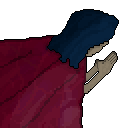
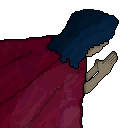
position fixes

Changed region(s): [[0.625, 0.5625, 0.7812, 0.75], [0.7812, 0.5938, 0.8125, 0.625]]

diff --git a/src/main.js b/src/main.js
@@ -92,7 +92,6 @@ import { Table, Player } from "./blackjack";
     const profitGoldTexture = await Assets.load({src: "/assets/upProfitGold.png", data: {scaleMode: "nearest"}});
     const endTexture = await Assets.load({src: "/assets/upEnd.png", data: {scaleMode: "nearest"}});
     const endVisTexture = await Assets.load({src: "/assets/upEndVis.png", data: {scaleMode: "nearest"}});
-    const heartTexture = await Assets.load({src: "/assets/heart.png", data: {scaleMode: "nearest"}});
     const infoTexture = await Assets.load({src: "/assets/flair_small_info.png", data: {scaleMode: "nearest"}});
     const infoCardNumberTexture = await Assets.load({src: "/assets/card3.png", data: {scaleMode: "nearest"}});
     const infoCardFaceTexture = await Assets.load({src: "/assets/card52.png", data: {scaleMode: "nearest"}});
@@ -112,7 +111,7 @@ import { Table, Player } from "./blackjack";
         cardL2Textures.push(texture);
     }
 
-    const backgroundSprite = new Sprite({texture: backgroundTexture, anchor: 0.5});
+    const backgroundSprite = new Sprite({texture: backgroundTexture, anchor: 0.5, zIndex: -100});
     const shopBgSprite = new Sprite({texture: shopBgTexture, anchor: 0.5, scale: scale});
     const keyZSprite = new Sprite({texture: isMobile.phone ? pointerTexture : keyZTexture, anchor: 0.5, scale: isMobile.phone ? scale/4 : scale/6});
     const keyXSprite = new Sprite({texture: isMobile.phone ? pointerTexture : keyXTexture, anchor: 0.5, scale: isMobile.phone ? scale/4 : scale/6});
@@ -121,6 +120,7 @@ import { Table, Player } from "./blackjack";
     const keyCSprite = new Sprite({texture: isMobile.phone ? pointerTexture : keyCTexture, anchor: 0.5, scale: isMobile.phone ? scale/4 : scale/8, eventMode: "static"});
     const playerSprite = new Sprite({texture: isMobile.phone ? playernewextendTexture : playerTexture, anchor: {x: 0, y: 1}, scale: scale});
     const dealerSprite = new Sprite({texture: dealerTexture, scale: scale*0.9});
+    let dealerSpriteDefaultY = dealerSprite.y;
     const cardBackSprite = new Sprite({texture: cardBackTexture, anchor: 0.5, zIndex: 3});
     const cardEmptySprite1 = new Sprite({texture: cardEmptyTexture1, anchor: 0.5, alpha: 0.9, scale: scale});
     const cardEmptySprite2 = new Sprite({texture: cardEmptyTexture2, anchor: 0.5, alpha: 0.7, scale: scale});
@@ -700,29 +700,6 @@ import { Table, Player } from "./blackjack";
         updateButtonColor(itemID);
     }
 
-    const hearts = [];
-    function drawHearts(x, y, amount, maxAmount) {
-        for (const sprite of hearts) {
-            hudContainer.removeChild(sprite);
-            sprite.destroy();
-        }
-
-        for (let i = 1; i <= maxAmount; i++) {
-            const heartSprite = new Sprite({
-                texture: heartTexture,
-                anchor: 0.5,
-                position: {x: x + spacing*0.25 * i, y: y}, scale: scale*0.8});
-
-            if (i > amount) {
-                heartSprite.alpha = 0.2;
-            }
-            else heartSprite.alpha = 1;
-
-            hearts.push(heartSprite);
-            hudContainer.addChild(heartSprite);
-        }
-    }
-
     window.addEventListener("resize", reSize);
     function reSize() {
         portraitBoost = isMobile.phone ? 2.25 : 1;
@@ -748,6 +725,7 @@ import { Table, Player } from "./blackjack";
         playerBalanceText.position.set(playerSprite.x+playerSprite.width-spacing, halfHeight - spacing / 1.3);
         playerBetText.position.set(playerSprite.x+playerSprite.width-spacing, halfHeight - spacing / 2);
         dealerSprite.position.set(halfWidth-dealerSprite.width, -halfHeight);
+        dealerSpriteDefaultY = -halfHeight;
         dealerNameText.position.set(dealerSprite.x-dealerSprite.width/4, -halfHeight + spacing);
         dealerinfoBgSprite.position.set(dealerNameText.x-spacing/4, dealerNameText.y - dealerNameText.height/6);
         shopSprite.position.set(halfWidth - spacing / 6, halfHeight - spacing);
@@ -755,6 +733,7 @@ import { Table, Player } from "./blackjack";
         playerSumText.position.set(halfWidth/4, cheatBgSprite.position.y + cheatBgSprite.height/2 + spacing*2);
         dealerSumText.position.set(-halfWidth/4, cheatBgSprite.position.y - cheatBgSprite.height/2 - spacing*1.4 + spacing);
         playerinfoBgSprite.position.set(playerNameText.x-spacing/4, playerNameText.y - playerNameText.height/3);
+        shopText.position.set(shopBgSprite.x-shopBgSprite.width/2 + spacing/2, shopBgSprite.y-shopBgSprite.height/2 - spacing/4);
 
         shopContainer.y = shopSprite.y - shopBgSprite.height/2 - spacing*0.2;
         infoContainer.y = infoSprite.y + infoBgSprite.height/2 + spacing*0.6;
@@ -906,6 +885,22 @@ import { Table, Player } from "./blackjack";
     window.addEventListener("focus", () => {
         app.canvas.focus();
     });
+    let bobDirection = -1;
+
+    const animateDealerBob = () => {
+        dealerSprite.y += bobDirection * app.ticker.deltaMS/100;
+        dealerNameText.y += bobDirection * app.ticker.deltaMS/100;
+        dealerinfoBgSprite.y += bobDirection * app.ticker.deltaMS/100;
+        if (dealerSprite.y <= dealerSpriteDefaultY - 24) {
+            dealerSprite.y = dealerSpriteDefaultY - 24;
+            bobDirection = 1;
+        } else if (dealerSprite.y >= dealerSpriteDefaultY) {
+            dealerSprite.y = dealerSpriteDefaultY;
+            bobDirection = -1;
+        }
+    };
+
+    app.ticker.add(animateDealerBob);
 
     let elapsed = 0;
     let sleep = 0;
@@ -1239,7 +1234,6 @@ import { Table, Player } from "./blackjack";
                     endSprite.alpha = 0;
                     endText.text = "Kill\nEnd dealer's life";
                 }
-                if (player.inventory.kill > 0 && player.endgame != 2) drawHearts(dealerSprite.x+dealerSprite.width, dealerSprite.y+dealerSprite.height-scale*4, dealer.hp, 3);
 
                 gamestate = "BET";
 
@@ -1285,13 +1279,10 @@ import { Table, Player } from "./blackjack";
 
                 drawDealerBackCard();
 
-                if (cheat) drawDeckCards(0, spacing/2);
+                if (cheat) drawDeckCards(0, spacing/4);
 
                 if (player.endgame == 2) {
-                    drawDeckCards(0, spacing/2);
-                    if (hearts.length != 0) {
-                        for (let heart of hearts) hudContainer.removeChild(heart);
-                    }
+                    drawDeckCards(0, spacing/4);
                 }
                 playerSumText.text = player.GetDeckSum();
                 dealerSumText.text = dealer.deck[1].gameValue + "+";
@@ -1479,7 +1470,16 @@ import { Table, Player } from "./blackjack";
                 
                 if (player.inventory.kill > 0 && player.endgame != 2) {
                     dealer.hp -= 1;
-                    drawHearts(dealerSprite.x+dealerSprite.width, dealerSprite.y+dealerSprite.height-scale*4, dealer.hp, 3);
+                    let dmgTick = 0;
+                    dealerSprite.tint = "red";
+                    const animateDealerDmg = () => {
+                        dmgTick += app.ticker.deltaMS;
+                        if (dmgTick > 200) {
+                            dealerSprite.tint = "white";
+                            app.ticker.remove(animateDealerDmg);
+                        }
+                    };
+                    app.ticker.add(animateDealerDmg);
                     if (dealer.hp <= 0) {
                         gamestate = "MERCY";
                         break;
@@ -1516,7 +1516,6 @@ import { Table, Player } from "./blackjack";
             case "SPECIAL_CARD":
                 break;
             case "LOOP":
-                if (player.inventory.kill > 0 && player.endgame != 2) drawHearts(dealerSprite.x+dealerSprite.width, dealerSprite.y+dealerSprite.height-scale*4, dealer.hp, 3);
                 break;
   
             default:

diff --git a/src/blackjack.js b/src/blackjack.js
@@ -8,7 +8,7 @@ export class Player { // Also the dealer
         this.deck = [];
         this.balance = 0;
         this.bet;
-        this.balanceDefault = 200;
+        this.balanceDefault = 35000;
         this.betDefault = 50;
         this.inventory = {};
         this.hp = 3;
